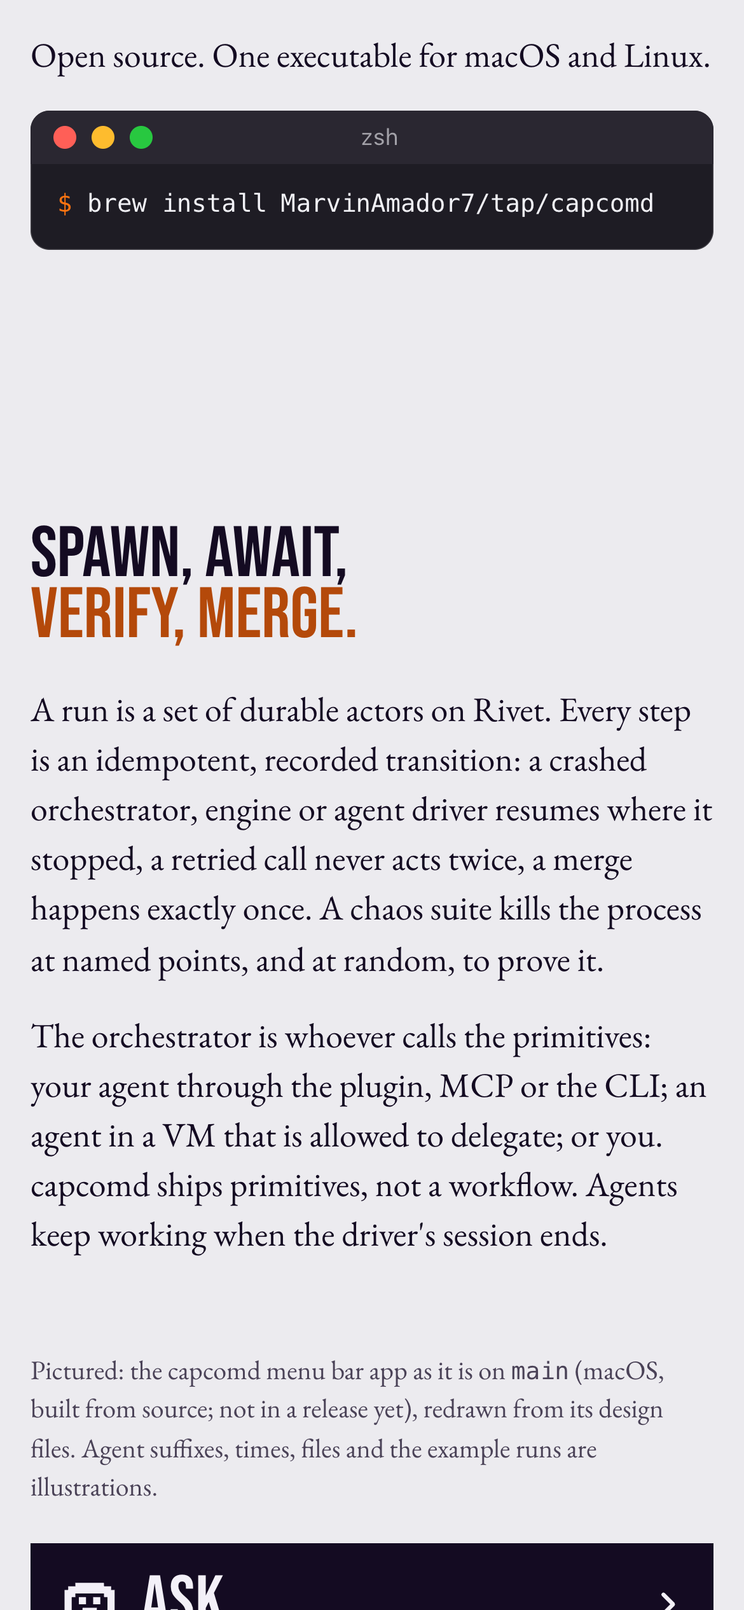
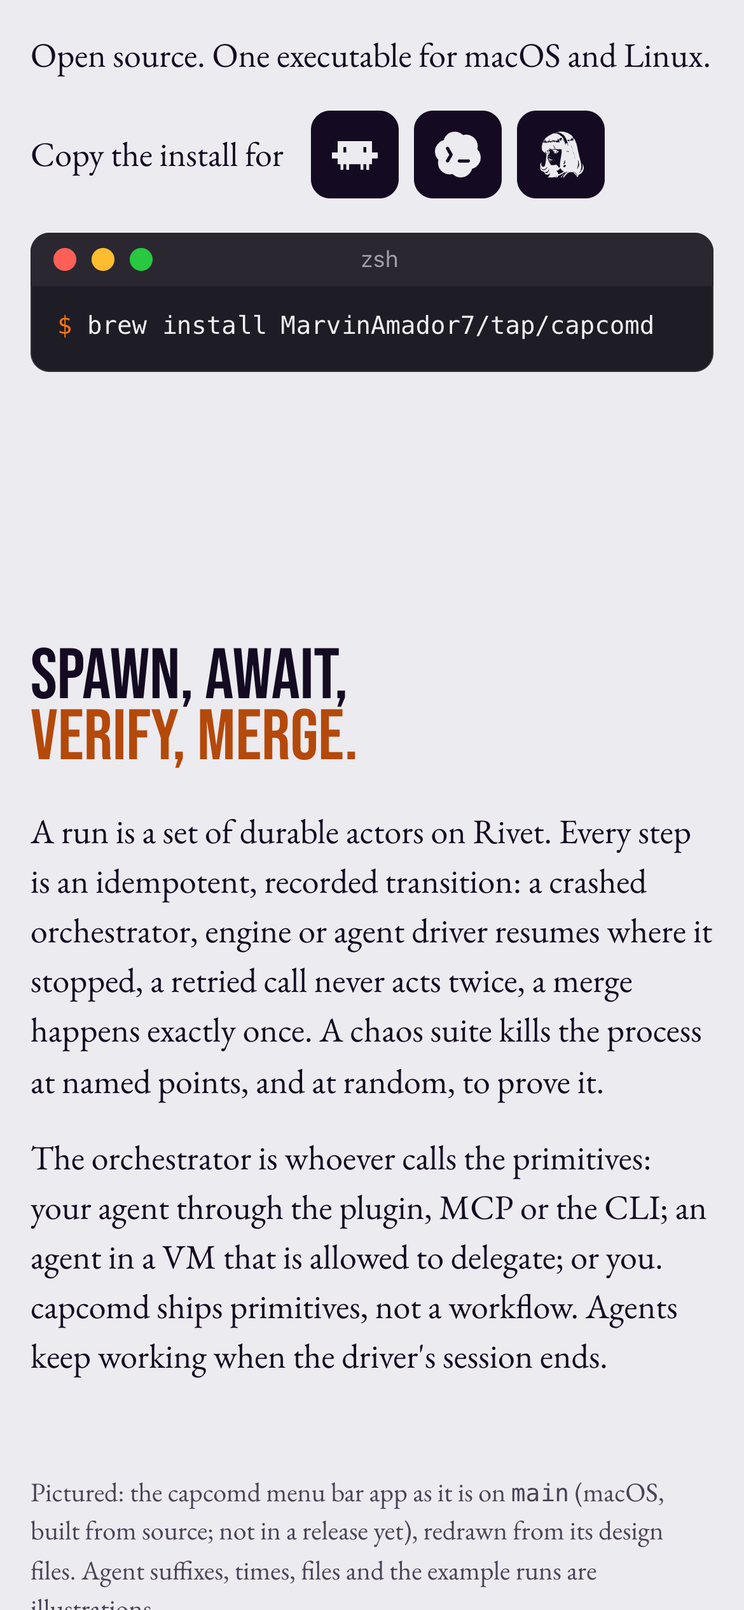
site: Claude Code, Codex and Hermes buttons in the hero that copy the install step
Each button copies the README's Quickstart step 1 for that agent:
- Claude Code: `/plugin install capcomd --marketplace MarvinAmador7/capcomd`.
- Codex: `codex plugin marketplace add MarvinAmador7/capcomd`.
- Hermes: the installer, then `capcomd setup agent`.

After copying, a note shows the command and the next step ("Set up capcomd
for this repository."). The marks are one colour each, from
@lobehub/icons-static-svg (MIT). The buttons have accessible names, a
tooltip and a role=status message. If the clipboard API isn't available
they fall back to execCommand, and they reserve their space before
hydration so nothing shifts.

Changed region(s): [[0.0308, 0.312, 0.9846, 1.0], [0.0308, 0.0624, 0.9846, 0.2496], [0.8615, 0.4368, 0.9231, 0.468]]

diff --git a/site/lib/agent-icons.ts b/site/lib/agent-icons.ts
@@ -1,0 +1,7 @@
+// Agent marks for the install buttons: Claude Code, Codex and Hermes Agent, from @lobehub/icons-static-svg 1.101.0
+// (MIT; the marks belong to their owners). One colour each, drawn in currentColor on a 24×24 viewBox.
+export const AGENT_ICONS = {
+  claude: "<path clip-rule=\"evenodd\" d=\"M20.998 10.949H24v3.102h-3v3.028h-1.487V20H18v-2.921h-1.487V20H15v-2.921H9V20H7.488v-2.921H6V20H4.487v-2.921H3V14.05H0V10.95h3V5h17.998v5.949zM6 10.949h1.488V8.102H6v2.847zm10.51 0H18V8.102h-1.49v2.847z\"></path>",
+  codex: "<path clip-rule=\"evenodd\" d=\"M8.086.457a6.105 6.105 0 013.046-.415c1.333.153 2.521.72 3.564 1.7a.117.117 0 00.107.029c1.408-.346 2.762-.224 4.061.366l.063.03.154.076c1.357.703 2.33 1.77 2.918 3.198.278.679.418 1.388.421 2.126a5.655 5.655 0 01-.18 1.631.167.167 0 00.04.155 5.982 5.982 0 011.578 2.891c.385 1.901-.01 3.615-1.183 5.14l-.182.22a6.063 6.063 0 01-2.934 1.851.162.162 0 00-.108.102c-.255.736-.511 1.364-.987 1.992-1.199 1.582-2.962 2.462-4.948 2.451-1.583-.008-2.986-.587-4.21-1.736a.145.145 0 00-.14-.032c-.518.167-1.04.191-1.604.185a5.924 5.924 0 01-2.595-.622 6.058 6.058 0 01-2.146-1.781c-.203-.269-.404-.522-.551-.821a7.74 7.74 0 01-.495-1.283 6.11 6.11 0 01-.017-3.064.166.166 0 00.008-.074.115.115 0 00-.037-.064 5.958 5.958 0 01-1.38-2.202 5.196 5.196 0 01-.333-1.589 6.915 6.915 0 01.188-2.132c.45-1.484 1.309-2.648 2.577-3.493.282-.188.55-.334.802-.438.286-.12.573-.22.861-.304a.129.129 0 00.087-.087A6.016 6.016 0 015.635 2.31C6.315 1.464 7.132.846 8.086.457zm-.804 7.85a.848.848 0 00-1.473.842l1.694 2.965-1.688 2.848a.849.849 0 001.46.864l1.94-3.272a.849.849 0 00.007-.854l-1.94-3.393zm5.446 6.24a.849.849 0 000 1.695h4.848a.849.849 0 000-1.696h-4.848z\"></path>",
+  hermes: "<path d=\"M5.938 12.835c.127-.039.285.02.373.143.028.038.036.092.046.14.003.014-.02.033-.04.05-.124-.098-.24-.194-.354-.291-.011-.01-.016-.027-.025-.042zM8.396 9.412c.195-.032.39-.06.588-.05a.54.54 0 01.148.026c.202.071.402.147.601.224.028.01.05.036.075.055l-.013.027a9.203 9.203 0 01-.26-.089c-.115-.038-.213-.077-.315-.098-.25-.05-.25-.046-.292-.014l.574.144c.275.139.55.276.823.417.042.022.09.057.107.098.026.06.063.076.117.072.066-.006.132-.017.213-.027l-.04.086c.051.08.142.02.216.064-.074.13-.247.09-.334.199l.061.074-.12.087c0 .106-.038.168-.306.243l.026.085-.196.042.07.124h-.25l-.007.137c-.081-.01-.161-.018-.244-.027l-.053.123c-.027-.008-.052-.011-.073-.023-.067-.038-.128-.056-.195.006-.019.017-.063.014-.093.008-.026-.006-.05-.029-.07-.042-.11.095-.11.095-.208.003-.057.046-.12.074-.186.011-.063.027-.123-.02-.178-.014-.07.007-.097-.035-.133-.07l-.13.033c-.013-.236-.194-.19-.34-.203.005-.072.05-.092.095-.094a.474.474 0 01.159.022c.164.05.32.12.496.138.203.021.405.029.601-.015.265-.059.52-.149.707-.365.049-.056.083-.127.117-.195.019-.038.02-.084-.02-.116a1.397 1.397 0 00-.382-.217c.024.12-.031.182-.115.221 0 .014-.004.025 0 .03.08.115.084.16-.007.267a1.39 1.39 0 01-.218.211.477.477 0 01-.641-.05 1.36 1.36 0 01-.133-.152c-.078-.107-.076-.108-.033-.236-.165-.08-.128-.226-.104-.364.008-.05.028-.096.049-.163-.04.014-.067.017-.087.032a.897.897 0 00-.316.357c-.007.016-.01.034-.02.047-.012.015-.034.038-.045.035-.02-.006-.037-.027-.05-.045-.008-.012-.007-.032-.012-.057h-.126l.053-.172a14.82 14.82 0 00-.039-.049l.11-.284c-.06.026-.091.044-.124.051-.03.007-.064 0-.095 0 0-.031-.01-.07.004-.092.149-.22.305-.428.593-.476z\"></path><path d=\"M8.06 10.788c-.003-.038-.004-.075.037-.062.016.006.034.048.028.067-.01.04-.038.032-.064-.005z\"></path><path clip-rule=\"evenodd\" d=\"M11.981.009c.226-.012.453-.011.679 0 .247.01.495.024.74.062.401.064.798.157 1.19.273.463.138.92.299 1.356.511a7.31 7.31 0 012.948 2.642c.292.469.536.963.739 1.479.219.556.446 1.11.623 1.683.204.654.329 1.326.458 1.997.097.504.182 1.01.29 1.511.156.722.329 1.44.494 2.16.186.812.4 1.615.63 2.415.102.355.193.713.282 1.072.11.436.202.876.254 1.323.031.278.066.557.073.837a7.56 7.56 0 01-.017.88c-.037.413-.1.818-.226 1.212a5.017 5.017 0 01-.915 1.649l-.13.156.018.023c.043-.023.088-.041.127-.068.2-.138.373-.307.531-.49.4-.46.721-.973.975-1.529a3.59 3.59 0 00.325-1.72c-.024-.424-.097-.834-.3-1.213-.013-.027-.015-.06-.03-.121.05.035.082.048.101.072.107.13.22.258.315.398.33.494.46 1.052.486 1.64a3.75 3.75 0 01-.47 1.97c-.36.655-.887 1.14-1.526 1.506-.193.111-.394.21-.595.308-.157.078-.248.211-.318.365a.522.522 0 00-.033.406.359.359 0 01.013.139c-.005.077-.077.155-.14.162-.054.006-.125-.043-.15-.116a1.206 1.206 0 01-.06-.233c-.04-.314-.155-.6-.308-.87a3.906 3.906 0 00-.73-.91 2.129 2.129 0 00-.897-.524 4.093 4.093 0 00-.692-.131c-.075-.008-.15-.04-.22.01.18.06.363.11.538.18.434.173.82.43 1.18.728.308.255.58.543.794.884.098.155.186.315.227.496.027.123.042.25.067.375.013.062-.002.109-.053.144-.047.033-.122.034-.163-.01a.455.455 0 01-.08-.14c-.03-.073-.038-.159-.078-.225a7.314 7.314 0 00-1.423-1.664c-.16-.137-.329-.26-.537-.323-.376-.114-.753-.203-1.15-.154-.213.025-.427.032-.64.053a1.6 1.6 0 00-.736.278 5.14 5.14 0 00-.834.72c-.329.342-.642.699-.955 1.055-.136.155-.264.319-.314.531a5.227 5.227 0 00-.012.051.096.096 0 01-.09.076h-.31c-.046 0-.082-.048-.072-.094.023-.108.045-.216.07-.324.075-.325.19-.635.368-.917.024-.039.04-.088.104-.08l.01.049.027.077c.28-.435.571-.834.996-1.135.283-.204.584-.378.89-.55a.196.196 0 00-.098-.002c-.162.043-.325.084-.485.134-.402.124-.764.33-1.11.566-.147.1-.298.193-.414.333a7.314 7.314 0 00-1.07 1.767.845.845 0 00-.04.12.075.075 0 01-.072.056h-.494c-.04 0-.062-.051-.036-.082.123-.14.246-.282.377-.415.275-.281.58-.532.777-.884.027-.048.063-.09.095-.135.238-.333.54-.607.818-.902.082-.086.175-.16.26-.24.029-.027.053-.057.079-.085l-.018-.025-.135.041c-.034.017-.07.031-.102.05-.248.144-.494.292-.743.433-.408.23-.825.439-1.209.711-.281.2-.591.358-.889.533-.02.012-.044.015-.08.028-.015-.135.143-.201.108-.336-.033.014-.064.02-.085.038-.111.096-.227.19-.328.296-.148.157-.284.325-.425.488-.125.143-.25.286-.373.431A.153.153 0 019.89 24H8.762a.316.316 0 00.016-.042c.028-.09.085-.172.083-.28-.091-.018-.162.001-.212.077a4.45 4.45 0 00-.136.215c-.01.016-.024.03-.042.03h-.093c-.019 0-.029-.022-.017-.037.071-.088.14-.178.209-.268.001-.002-.006-.012-.012-.024-.014.004-.03.006-.045.013-.176.09-.352.181-.527.274a.363.363 0 01-.168.042H5.202c-.026 0-.039-.036-.019-.053.21-.178.402-.374.558-.605.335-.496.538-1.047.667-1.629.004-.02-.003-.043-.006-.091-.037.048-.059.072-.076.1a1.943 1.943 0 01-.334.415c-.28.258-.59.448-.983.464-.297.012-.588 0-.865-.127-.46-.21-.722-.57-.794-1.072-.025-.17-.017-.171-.182-.219A3.513 3.513 0 011.97 20.6a2.286 2.286 0 01-.808-1.13 3.569 3.569 0 01-.16-1.245c.002-.034.016-.067.024-.1.032.023.046.043.05.066.033.153.059.308.096.46.086.355.257.664.516.92.258.256.571.419.91.532.358.118.717.138 1.07-.016a1.89 1.89 0 00.621-.452c.328-.348.533-.76.648-1.223.009-.034.005-.071.007-.11-.015.006-.026.006-.03.011-.031.05-.064.1-.093.152-.284.502-.679.887-1.196 1.135-.351.17-.718.255-1.11.159a1.607 1.607 0 01-.971-.64 2.006 2.006 0 01-.368-.924 2.903 2.903 0 01.02-.886c.05-.439.466-1.17.742-1.271-.02.063-.035.112-.053.16-.043.116-.097.227-.13.345a1.901 1.901 0 00-.05.82c.033.212.09.416.204.6.147.236.346.407.62.465.11.023.225.014.338.018a.576.576 0 00.386-.131c.164-.128.282-.292.366-.481.168-.375.24-.777.309-1.179.05-.296.093-.594.133-.893.039-.281.071-.563.104-.845.026-.232.048-.464.074-.696.024-.228.052-.455.076-.683.024-.227.047-.455.069-.683.013-.14.022-.28.034-.42l.037-.417c.022-.25.041-.5.065-.748.008-.082-.02-.132-.09-.177a2.46 2.46 0 01-.492-.418c-.1-.109-.188-.228-.282-.342-.035-.042-.056-.097-.116-.118a2.084 2.084 0 00.275.597c.06.092.131.176.196.265.063.086.182.115.234.226-.028.003-.046.01-.06.006a4.74 4.74 0 01-.22-.057 2.71 2.71 0 01-1.287-.819c-.435-.487-.656-1.076-.71-1.723a5.206 5.206 0 01.014-1.06c.072-.602.22-1.186.45-1.745.155-.376.338-.741.526-1.102.205-.393.466-.75.765-1.076.512-.559 1.104-1.024 1.726-1.448.717-.49 1.478-.898 2.277-1.233C8.244.828 8.767.632 9.31.494c.655-.166 1.31-.33 1.982-.415.229-.03.458-.058.688-.07zm-1.847 22.82c-.07.06-.147.111-.207.18-.238.27-.464.549-.668.869l-.044.108a.177.177 0 00.093-.057c.174-.19.351-.378.519-.574.104-.122.195-.255.288-.386.024-.034.03-.08.046-.12l-.027-.02zm1.65-3.695a5.51 5.51 0 00-.653.593l-.37.386a.963.963 0 01-.377.25 1.372 1.372 0 01-.467.09c-.044 0-.087.006-.151.012.028.058.043.097.064.131.15.242.301.482.45.724.136.22.276.438.399.666.068.125.105.267.156.404.077.027.14-.018.202-.048.29-.135.579-.274.867-.412.213-.101.437-.186.636-.31.347-.215.68-.455 1.018-.685.015-.01.026-.028.042-.046-.023-.019-.038-.037-.056-.044-.287-.111-.527-.3-.77-.482a5.319 5.319 0 01-.506-.42 1.757 1.757 0 01-.41-.653c-.019-.049-.045-.095-.075-.156zm-5.847.264c-.06.096-.097.194-.132.293a3.38 3.38 0 01-.555 1.01c-.2.25-.455.412-.762.493-.23.06-.464.076-.7.07-.048-.002-.097.002-.158.005.016.04.021.066.035.085.1.145.23.246.4.295.157.046.316.034.498.023.181-.037.343-.115.485-.234.238-.199.402-.454.536-.732.175-.363.264-.751.342-1.144.01-.053.008-.11.011-.164zm14.945-4.586c.008.029.016.057.027.107.024.155.051.31.072.464.03.219.067.437.078.657.017.344.027.689-.014 1.033-.037.315-.063.633-.116.946a6.153 6.153 0 01-.46 1.518c-.008.018-.01.039-.02.082.047-.03.077-.042.098-.064.085-.083.17-.167.248-.255.271-.305.458-.66.596-1.043.18-.498.228-1.011.145-1.531-.103-.65-.33-1.263-.597-1.881a9.055 9.055 0 00-.024-.055l-.033.022zM5.797 8.29a.26.26 0 00.018.153c.124.251.25.501.379.75.025.049.066.09.03.163-.284.06-.578.119-.88.255.059.038.097.06.132.087.042.032.112.058.09.12-.01.033-.075.048-.117.072.017.01.043.021.067.036.166.102.33.207.447.368.138.192.229.404.188.644-.079.469-.306.85-.69 1.132-.054.04-.106.083-.161.122a.243.243 0 00-.103.245.77.77 0 00.055.195c.083.196.22.35.375.492.083.076.159.164.222.257a.37.37 0 01.025.377c-.023.05-.05.099-.076.148-.03.06-.028.111.022.162.041.042.08.089.112.138.038.058.078.079.147.05a.486.486 0 01.333-.006c.16.046.302.126.444.21.13.077.264.149.4.219.067.035.14.05.219.026.071-.022.124.01.145.076.02.064-.003.108-.074.139-.07.03-.137.063-.209.088-.1.035-.201.073-.314.077-.013-.107.11-.088.127-.159-.206-.126-.643-.145-.801-.034.063.112.035.21-.096.313-.13-.1-.025-.202.002-.3a.209.209 0 00-.249.17c-.015.101.067.216.178.224.108.007.218-.005.326-.012.06-.005.12-.027.199 0-.103.123-.248.127-.357.19.002.05.07.086.019.131-.053.048-.095-.001-.132-.03-.08-.063-.16-.126-.231-.197a.474.474 0 01-.157-.311.52.52 0 00-.043-.172c-.032-.074-.032-.137.033-.19-.018-.03-.028-.053-.045-.072a1.222 1.222 0 01-.196-.369c-.053-.137-.046-.264.048-.381.024-.03.05-.06.064-.095a.664.664 0 00.047-.168c.017-.165-.064-.287-.182-.387-.186-.156-.36-.322-.46-.551-.005-.011-.024-.017-.037-.026-.011.017-.024.027-.025.038-.019.185-.045.37-.052.557-.014.377.058.743.162 1.104.118.41.289.798.488 1.173.267.502.537 1.002.812 1.5.055.098.13.189.208.27.198.202.452.272.724.273.202 0 .404-.006.605-.026.295-.03.59-.073.884-.113.183-.025.365-.057.548-.08.21-.026.38.073.522.21.16.156.305.327.447.5.22.265.397.56.554.867.05.098.07.1.147.03.13-.121.26-.242.394-.36.067-.059.088-.12.067-.213a3.535 3.535 0 01-.085-.796c.002-.157.006-.314.018-.471.015-.224.03-.45.06-.672a59.114 59.114 0 01.362-2.298c.087-.493.182-.984.268-1.477.06-.347.118-.694.162-1.043.034-.273.055-.55.063-.825.011-.332.003-.665.002-.998 0-.077.004-.155-.01-.23-.028-.142-.01-.155-.162-.19a5.826 5.826 0 00-.607-.107c-.146-.018-.207-.053-.221-.19-.006-.049-.025-.098-.041-.146-.009-.025-.024-.048-.046-.09l-.025.264c-.009.096-.029.116-.127.115-.055 0-.11-.008-.164-.008-.476 0-.952-.008-1.426.032-.095.008-.173-.015-.226-.103-.04-.066-.088-.126-.134-.186-.063-.084-.086-.093-.182-.06-.195.068-.388.138-.582.21a2.71 2.71 0 00-.675.394.986.986 0 01-.323.168c-.033.01-.07.008-.127.013.02-.066.024-.114.047-.15.064-.105.135-.205.205-.306.023-.033.049-.063.073-.095l-.015-.023-.201.037c-.146.04-.296.07-.437.122-.148.053-.266.023-.386-.072a3.623 3.623 0 01-.733-.786l-.093-.132zm8.592 8.963l-.147.09c-.22.134-.44.266-.659.402-.093.058-.184.12-.27.188-.085.07-.124.161-.072.272.047.1.093.2.147.294.047.08.124.138.213.147.11.01.228.012.336-.012.217-.05.372-.205.528-.357a.291.291 0 00.087-.308c-.046-.18-.079-.365-.118-.547-.011-.052-.027-.103-.045-.169zm-.257-2.409c-.12.291-.205.597-.325.91-.151.433-.294.87-.435 1.323.036-.01.054-.01.067-.018.261-.16.522-.324.785-.484.054-.033.071-.078.065-.138-.012-.13-.024-.262-.034-.393l-.068-.886c-.008-.103-.02-.206-.029-.31-.009 0-.017-.002-.026-.004zm3.081-8.13l.099.285c.08.231.159.463.24.714l.58 1.952c.187.63.372 1.262.558 1.893.114.382.235.762.343 1.146.072.257.126.519.186.799.044.206.087.413.127.64.034.106.023.226.077.325l.025-.006-.068-.362c-.038-.206-.077-.412-.113-.638-.015-.07-.029-.141-.046-.211-.095-.396-.177-.796-.29-1.187-.196-.685-.413-1.364-.618-2.046-.165-.549-.322-1.1-.488-1.648-.069-.227-.15-.45-.226-.695l-.117-.336c-.037-.107-.075-.216-.115-.322-.04-.106-.084-.21-.127-.314a7.558 7.558 0 01-.027.01zM6.225 14.304c-.063-.001-.115.014-.134.083a.35.35 0 00.41.012 4.533 4.533 0 00-.276-.095zM5.23 11.98c-.026-.027-.057-.048-.075.002-.012.032-.007.07-.01.113.082-.037.082-.037.085-.115zm.062-1.189a.135.135 0 00-.088.056.197.197 0 00-.025.11c.005.152.01.306.026.457a.751.751 0 00.066.218c.061.136.157.167.288.101.055-.027.06-.054.025-.11a4.52 4.52 0 01-.129-.211c-.015-.068-.066-.131-.033-.207.04-.09-.076-.116-.074-.19V10.874c-.003-.038-.006-.087-.056-.083zm-.017-.968a.867.867 0 00-.467.127c-.076.045-.084.07-.05.158.034.087.07.173.115.254.064.117.09.125.21.077a.657.657 0 01.336-.053c.202.022.357.136.504.264l.092.077c.007-.006.014-.013.022-.018-.019-.105-.035-.226-.149-.264-.157-.053-.324-.075-.508-.117l-.24-.005c.24-.169.452-.044.687.009-.063-.115-.153-.147-.23-.193-.082-.05-.17-.092-.25-.144-.06-.037-.12-.08-.072-.172zm10.233.325c-.23-.01-.427.08-.608.211-.034.026-.06.065-.105.117.087.026.15.046.232.065.044-.015.088-.03.13-.046.306-.114.61-.115.904.031.126.063.237.04.366-.005-.02-.031-.03-.054-.045-.071a.986.986 0 00-.448-.273c-.14-.044-.284-.024-.426-.03zM7.99 6.483a.308.308 0 00.002.133c.08.321.156.643.242.962.104.387.27.75.456 1.103.02.037.061.08.098.087a.404.404 0 00.253-.051l-.472-.84c-.23-.448-.405-.92-.579-1.394zM10.397.497c-.2-.008-.405.004-.603.034-.236.035-.47.087-.7.152-.287.08-.569.18-.852.273-.04.013-.074.038-.11.058.028.014.05.018.07.014.287-.068.58-.085.873-.09.134-.002.269.009.402.025.19.024.382.048.57.09.456.104.874.3 1.265.556.464.306.888.66 1.257 1.078.205.232.395.475.56.739.17.274.315.561.449.856.273.601.456 1.232.6 1.876.04.173.07.348.1.524.017.104.065.167.17.19.122.028.2.105.22.251-.003.102-.06.174-.129.24a1.065 1.065 0 00-.268.358.164.164 0 00.083-.039c.08-.086.162-.172.235-.265a.56.56 0 00.13-.333c.009-.05.022-.1.024-.15.007-.124-.017-.15-.143-.168-.025-.004-.049-.014-.073-.015-.082-.007-.125-.063-.137-.131-.033-.198-.004-.355.247-.408.086-.018.174-.03.26-.042.158-.023.315-.053.473-.067.14-.012.19.033.226.167.008.029.018.057.021.087.019.179-.008.225-.141.288-.027.013-.055.024-.078.042a.148.148 0 00-.051.067c-.039.144.073.382.206.445l.673.32c.023.011.05.015.075.023l.018-.026c-.015-.008-.032-.013-.044-.024a2.27 2.27 0 00-.544-.32 4.898 4.898 0 00-.173-.075.203.203 0 01-.126-.191c-.003-.085.045-.154.128-.187l.059-.025c.099-.044.118-.076.112-.187a.384.384 0 00-.008-.063c-.067-.294-.123-.59-.205-.88a9.478 9.478 0 00-.826-2.036 7.465 7.465 0 00-1.39-1.805 4.536 4.536 0 00-1.177-.824 3.656 3.656 0 00-1.016-.328 6.155 6.155 0 00-.712-.074zm6.719 5.955c.01.014.018.028.038.034l-.022-.044-.016.01zM4.103 3.917a.062.062 0 01-.03.012.455.455 0 01-.04.039c-.01.01-.02.02-.045.04l-.363.354c-.088.085-.17.178-.266.253-.284.22-.425.53-.544.855a.132.132 0 00-.007.071c.013.055.033.108.052.168l.074.026c-.017.056-.03.105-.047.152-.058.164-.118.327-.175.491-.005.015.008.036.019.077.08-.175.158-.33.225-.489.228-.544.484-1.074.819-1.561.09-.133.182-.266.283-.401.004-.006.007-.013.022-.03.001-.016.003-.032.015-.04l.008-.017zm12.976 2.408a.023.023 0 01.009.019.073.073 0 00-.006.01.188.188 0 00.007.02l.018.022c.002-.007.007-.016.005-.021-.003-.01-.012-.018-.02-.038a1.331 1.331 0 01-.013-.012zM4.199 4.48c-.003.004-.008.008-.027.014-.005.013-.011.025-.031.047a2.085 2.085 0 01-.124.167c-.048.07-.116.055-.181.041-.134-.028-.228.016-.287.143-.089.187-.187.37-.273.56-.049.108-.11.216-.118.36.081.003.154.007.228.008h.228a2.563 2.563 0 01-.079.264c-.01.052-.022.103-.033.155l.02.004c.018-.046.037-.092.067-.153.066-.142.13-.285.2-.426.02-.04.034-.1.116-.092 0 .043.004.084 0 .124-.005.045-.017.09-.028.143.141.043.086.174.115.269.102-.022.104-.195.248-.144v.205l.017.002.439-1.059c-.13 0-.246-.02-.358.033-.024.011-.058-.001-.108-.004.075-.15.139-.278.211-.417a.128.128 0 01.025-.036c0-.015-.001-.03.008-.038l.006-.02c-.005.006-.01.011-.028.017-.004.012-.009.024-.026.045a.085.085 0 01-.032.033c-.123.157-.09.164-.258.106-.079-.027-.078-.028-.047-.144.028-.046.056-.093.098-.15 0-.016-.001-.032.007-.042L4.2 4.48zm2.073-.67c-.003.006-.007.011-.027.016-.094.125-.194.246-.28.377-.155.238-.301.481-.451.723-.14.224-.345.368-.575.481-.017.008-.04.006-.079.011.012-.059.016-.109.033-.153a6.076 6.076 0 01.229-.518l-.007-.02a.138.138 0 01-.035.025c-.028.05-.055.1-.093.164-.26.424-.443.817-.442.95.024.004.048.011.073.013.177.013.188.007.26-.165.03-.07.077-.12.147-.15l.175-.07c.044-.018.085-.057.146-.032.003.05-.01.11.014.145.042.062.044.125.047.193.002.049.017.098.026.147.029-.034.039-.065.05-.097.142-.39.277-.782.428-1.17.1-.256.22-.504.33-.756.013-.03.013-.067.03-.092V3.81zm3.987-.34c0 .045.01.084.021.123.042.16.094.318.124.48.024.133.023.27.028.406 0 .033-.019.067-.032.11-.094-.058-.047-.158-.106-.215h-.125c-.015.072-.01.152-.046.2-.066.085-.155.154-.236.227-.043.038-.078.018-.103-.025l-.046-.087c-.065.035-.117.069-.172.093-.116.051-.235.095-.35.147-.085.038-.09.053-.07.147.014.075.034.148.047.223.013.072.05.109.123.124.233.05.462.115.657.265.058-.102.058-.102.168-.151.03-.014.06-.03.092-.042.08-.03.115-.017.15.06.023.048.041.098.066.158.06-.14-.042-.267.017-.416.157.18.24.39.375.567a.235.235 0 00.022-.098c.002-.124 0-.247.002-.371 0-.034.013-.067.02-.1l.032-.003c.11.155.13.354.226.52a3.036 3.036 0 00-.01-.392c-.004-.045 0-.074.05-.088.08.036.116.14.215.158-.03-.275-.423-1.137-.798-1.635-.114-.127-.2-.28-.34-.386zm-2.667.696c-.019.034-.03.05-.037.067-.061.185-.125.37-.18.556-.031.105-.087.169-.195.19-.09.019-.178.052-.268.073-.038.009-.089.015-.118-.003-.024-.016-.025-.069-.036-.106-.064.076-.082.087-.17.047-.133-.062-.262-.135-.393-.201-.048-.025-.093-.063-.17-.03-.043.12-.091.25-.137.382-.099.28-.087.242.095.453.046.048.102.03.154.023.054-.009.106-.03.16-.036.13-.013.26-.08.367-.015.204-.064.387-.122.571-.178.05-.015.089.005.114.054.022.042.034.093.082.121.038-.056-.013-.128.063-.178l.14.241-.042-1.46zm.278.358c-.096-.01-.107.01-.11.108-.002.038-.003.078.002.115.03.2.099.386.174.57.002.006.012.01.022.015l.078-.05c.052.036.081.088.153.088.205-.002.41.014.616.012.099-.001.158.042.205.12.018.03.024.077.088.066l-.08-.394c-.05-.195-.085-.395-.172-.589-.057.057-.114.068-.18.046a.72.72 0 00-.135-.028c-.22-.028-.44-.059-.66-.08zm10.254-1.727c.089.163.155.316.139.491-.016.168.026.342-.044.516-.047-.033-.088-.082-.112-.075-.117.035-.164-.057-.227-.115a4.772 4.772 0 01-.286-.29l-.104-.113a4.856 4.856 0 01-.023.019c.035.046.07.093.11.156.04.064.084.127.122.193.034.058.065.118.031.205-.082-.01-.164-.019-.246-.032-.06-.01-.101 0-.124.07-.031.098-.037.096-.15.09.02.042.036.08.057.116.041.074.03.138-.03.196-.06.06-.118.122-.178.181a.175.175 0 01-.185.046c-.222-.061-.447-.113-.67-.174-.032-.009-.063-.04-.086-.068-.03-.04-.052-.087-.08-.13-.044-.07-.09-.138-.136-.207a.18.18 0 00-.014.105c.012.127.03.253.035.38.005.1-.024.12-.121.104-.104-.017-.206-.04-.31-.058-.064-.012-.131-.028-.202.03l.081.208c.09 0 .166-.01.237.002a.819.819 0 01.458.251c.078.083.154.168.241.26l.018-.005c-.004-.006-.008-.013-.01-.04.014-.056-.062-.118.018-.178.031.03.064.057.088.09.058.078.111.159.169.257l.089.141.024-.013a2093.819 2093.819 0 01-.427-.934c.055.007.083.007.108.016.193.07.385.142.577.216.074.028.147.06.219.094.062.028.112.018.157-.033.05-.056.102-.112.154-.167.05-.051.095-.046.132.014.016.025.026.053.04.08.071.138.143.277.217.433l.159.308.025-.011c-.044-.106-.07-.218-.138-.334-.057-.182-.168-.346-.206-.545.136.034.362.326.567.732l.057.074.018-.011a1.563 1.563 0 01-.052-.127c-.046-.145-.097-.29-.136-.436-.022-.083-.036-.173.022-.26l.109.058-.026-.207.027-.016c.022.02.05.036.065.06.073.108.143.22.215.33.01.016.029.029.043.043-.036-.217-.2-.38-.229-.626l.155.112c.014-.166.012-.319.042-.465.032-.158-.023-.297-.063-.445.024.004.036.006.055.025.092.124.183.249.277.371.02.027.05.047.069.087l.04.063.019-.015a.293.293 0 01-.053-.082 27.922 27.922 0 01-.332-.49c-.221-.311-.363-.467-.485-.521zm-6.57.327c-.003.161.092.275.069.415l-.368.087c.09.139.032.237-.052.331-.05.057-.092.122-.143.178-.037.04-.046.078-.018.126l.16.275c.029.048.072.066.128.064.076-.003.152 0 .228-.001.116-.003.216.022.275.137.006.014.02.024.044.052.004-.059-.003-.098.01-.13.016-.04.04-.099.072-.108.084-.023.173-.024.26-.03.013-.001.027.018.04.029l.071.065c.019-.11-.082-.198-.024-.31l.126.04c-.026-.123-.07-.245-.071-.366 0-.123.051-.243.115-.36.107.062.16.156.234.253.183.265.36.533.494.834.165-.078.27.068.407.088-.003-.106-.133-.441-.197-.492a.142.142 0 00-.102-.028c-.06.011-.119.039-.191.063-.025-.039-.056-.078-.077-.122a3.936 3.936 0 00-.473-.783c-.076-.094-.16-.182-.228-.26l-.391.285c-.049.035-.094.03-.132-.017l-.169-.207c-.025-.03-.053-.059-.097-.108z\"></path>",
+} as const;

diff --git a/site/app/globals.css b/site/app/globals.css
@@ -98,8 +98,6 @@
 .hero__do { grid-column: 1 / span 6; display: flex; gap: 24px; align-items: center; margin-top: 4px; }
 .hero__do a.text { font-size: var(--text-body); text-underline-offset: 0.2em; }
 .hero__note { grid-column: 8 / span 5; grid-row: 1 / span 2; align-self: end; margin: 0; min-width: 0; font-size: var(--text-body); line-height: 1.45; }
-.hero__note button { all: unset; cursor: pointer; text-decoration: underline; text-underline-offset: 0.2em; }
-.hero__note button:focus-visible { outline: 3px solid var(--color-ink); outline-offset: 2px; }
 
 /* The install line in a small Mac window: the first native touch on the page. */
 .win { display: block; margin-top: 16px; border-radius: 10px; overflow: clip; background: var(--color-window); color: var(--color-app-text); font: 400 13px/1.35 var(--font-ui); box-shadow: inset 0 0 0 0.5px rgba(255,255,255,0.14); } /* taste-skill-ignore: interface fragment, window chrome */
@@ -950,4 +948,26 @@ html:not(.js) .stage__title { display: block; }
 @layer components {
   .spec__prov { display: inline-flex; align-items: center; gap: 10px; }
   .spec__mark { width: 0.72em; height: 0.72em; fill: currentColor; margin-top: -0.08em; }
+}
+
+/* The hero's install buttons: one per coding agent, each copies the README's step 1 for it. */
+@layer components {
+  .agents { position: relative; margin: 16px 0 18px; }
+  .agents.is-waiting { visibility: hidden; }
+  .agents__row { display: flex; flex-wrap: wrap; align-items: center; gap: 8px; }
+  .agents__lbl { margin-right: 6px; font-size: var(--text-body); }
+  .agents__btn { all: unset; box-sizing: border-box; position: relative; display: grid; place-items: center; width: 46px; height: 46px; border-radius: 10px; background: var(--color-ink); color: var(--color-paper); cursor: pointer; transition: transform 140ms var(--ease-out), background-color 160ms ease, color 160ms ease; }
+  .agents__btn svg { width: 24px; height: 24px; fill: currentColor; }
+  .agents__btn:hover { background: var(--color-plum); }
+  .agents__btn:active { transform: scale(0.96); }
+  .agents__btn:focus-visible { outline: 3px solid var(--color-ink); outline-offset: 2px; }
+  .agents__btn.is-done { background: var(--color-accent); color: var(--color-ink); }
+  .agents__btn::after { content: attr(data-tip); position: absolute; bottom: calc(100% + 8px); left: 50%; translate: -50% 4px; padding: 5px 8px; border-radius: 6px; background: var(--color-ink); color: var(--color-paper); font: 500 12px/1 var(--font-ui); white-space: nowrap; opacity: 0; pointer-events: none; transition: opacity 140ms ease, translate 160ms var(--ease-out); }
+  .agents__btn:hover::after, .agents__btn:focus-visible::after { opacity: 1; translate: -50% 0; }
+  .agents__status { position: absolute; z-index: 5; left: 0; top: calc(100% + 10px); width: min(440px, 100%); margin: 0; padding: 12px 14px; border-radius: 10px; background: var(--color-ink); color: var(--color-paper); font: 400 14px/1.45 var(--font-ui); }
+  .agents__status:empty { display: none; }
+  .agents__status b { display: block; font-weight: 600; }
+  .agents__status code { display: block; margin: 6px 0; color: var(--color-accent-light); overflow-wrap: anywhere; }
+  .agents__status span code { display: inline; margin: 0; }
+  @media (prefers-reduced-motion: reduce) { .agents__btn, .agents__btn::after { transition: none; } }
 }

diff --git a/site/components/AgentInstall.tsx b/site/components/AgentInstall.tsx
@@ -1,0 +1,50 @@
+"use client";
+
+// One button per coding agent that copies the README's "add capcomd to your agent" step for it (Quickstart, step 1),
+// and says what to do next. Until the page script runs the row keeps its space but stays invisible (no layout shift);
+// the README link beside it works either way.
+import { useEffect, useRef, useState } from "react";
+import { AGENT_ICONS } from "@/lib/agent-icons";
+
+const ASK = "Set up capcomd for this repository.";
+const AGENTS = [
+  { id: "claude", name: "Claude Code", copy: "/plugin install capcomd --marketplace MarvinAmador7/capcomd", next: <>Paste it into Claude Code, then ask: &ldquo;{ASK}&rdquo;</> },
+  { id: "codex", name: "Codex", copy: "codex plugin marketplace add MarvinAmador7/capcomd", next: <>Run it in a terminal, install capcomd from <code>/plugins</code> in Codex, then ask: &ldquo;{ASK}&rdquo;</> },
+  { id: "hermes", name: "Hermes", copy: "curl -fsSL https://raw.githubusercontent.com/MarvinAmador7/capcomd/main/install.sh | sh && capcomd setup agent", next: <>Run it in your repository, then ask Hermes: &ldquo;{ASK}&rdquo;</> },
+] as const;
+
+async function copy(text: string): Promise<boolean> {
+  try { await navigator.clipboard.writeText(text); return true; } catch { /* fall back below */ }
+  try {
+    const t = document.createElement("textarea");
+    t.value = text; t.setAttribute("readonly", ""); t.style.position = "fixed"; t.style.opacity = "0";
+    document.body.append(t); t.select();
+    const ok = document.execCommand("copy");
+    t.remove();
+    return ok;
+  } catch { return false; }
+}
+
+export function AgentInstall() {
+  const [ready, setReady] = useState(false);
+  const [done, setDone] = useState<{ id: string; ok: boolean } | null>(null);
+  const timer = useRef(0);
+  useEffect(() => { setReady(true); return () => clearTimeout(timer.current); }, []);
+  const a = done && AGENTS.find((x) => x.id === done.id);
+  return (
+    <div className={`agents${ready ? "" : " is-waiting"}`} aria-hidden={ready ? undefined : true}>
+      <div className="agents__row">
+        <span className="agents__lbl">Copy the install for</span>
+        {AGENTS.map((x) => (
+          <button key={x.id} type="button" className={`agents__btn${done?.id === x.id && done.ok ? " is-done" : ""}`} aria-label={`Copy the install command for ${x.name}`} data-tip={x.name}
+            onClick={async () => { const ok = await copy(x.copy); setDone({ id: x.id, ok }); clearTimeout(timer.current); timer.current = window.setTimeout(() => setDone(null), 9000); }}>
+            <svg viewBox="0 0 24 24" fillRule="evenodd" aria-hidden="true" dangerouslySetInnerHTML={{ __html: AGENT_ICONS[x.id] }} />
+          </button>
+        ))}
+      </div>
+      <p className="agents__status" role="status">
+        {a ? <><b>{done!.ok ? `Copied for ${a.name}` : `Couldn't copy; for ${a.name}, use`}</b><code>{a.copy}</code>{done!.ok ? <span>{a.next}</span> : null}</> : null}
+      </p>
+    </div>
+  );
+}

diff --git a/site/components/Hero.tsx b/site/components/Hero.tsx
@@ -1,3 +1,4 @@
+import { AgentInstall } from "./AgentInstall";
 import { HeroCrew } from "./crew";
 import { Win, delay } from "./marks";
 import { Nav } from "./Nav";
@@ -25,6 +26,7 @@ export function Hero() {
         </div>
         <div className="hero__note" data-load style={delay(620)}>
           <p className="m-0">Open source. One executable for macOS and Linux.</p>
+          <AgentInstall />
           <Win title="zsh" label="Install with Homebrew"><code tabIndex={0}>brew install MarvinAmador7/tap/capcomd</code></Win>
         </div>
       </div>

diff --git a/site/README.md b/site/README.md
@@ -32,6 +32,7 @@ Stack: Next.js 16.4.3, React 19.3.1, Tailwind CSS 4.3.3 (`@tailwindcss/postcss`)
 | `app/robots.ts`, `app/sitemap.ts` | `robots.txt` and `sitemap.xml`, written at build time. |
 | `components/` | One component per section. Server components by default, so the copy is in the static HTML and works without JS. The client parts are only `crew.tsx` (the crew, redrawn per visit and on "Draw another", and the typed goal), `RunAccordion.tsx` (the stages, an APG accordion of disclosure buttons) and `Reveals.tsx` (scroll entrances). |
 | `lib/site.ts` | The site's origin (`https://capcomd.vercel.app`, one value), the title, the description, and the licence line. |
+| `lib/agent-icons.ts` | The Claude Code, Codex and Hermes Agent marks on the hero's install buttons (from `@lobehub/icons-static-svg` 1.101.0, MIT; the marks belong to their owners). |
 | `lib/crew.ts`, `lib/marks.ts` | The crew's roles and default seed (`run_7e9410`, what the static HTML is drawn with), the wordmark, the menu bar mark. |
 | `lib/vendor/bot-avatar.js` | packages/bot-avatar, bundled as one ESM file by `bun run vendor` (with hand-written types beside it). |
 | `public/fonts/OFL-*.txt` | The fonts' licences, linked from the footer. |
